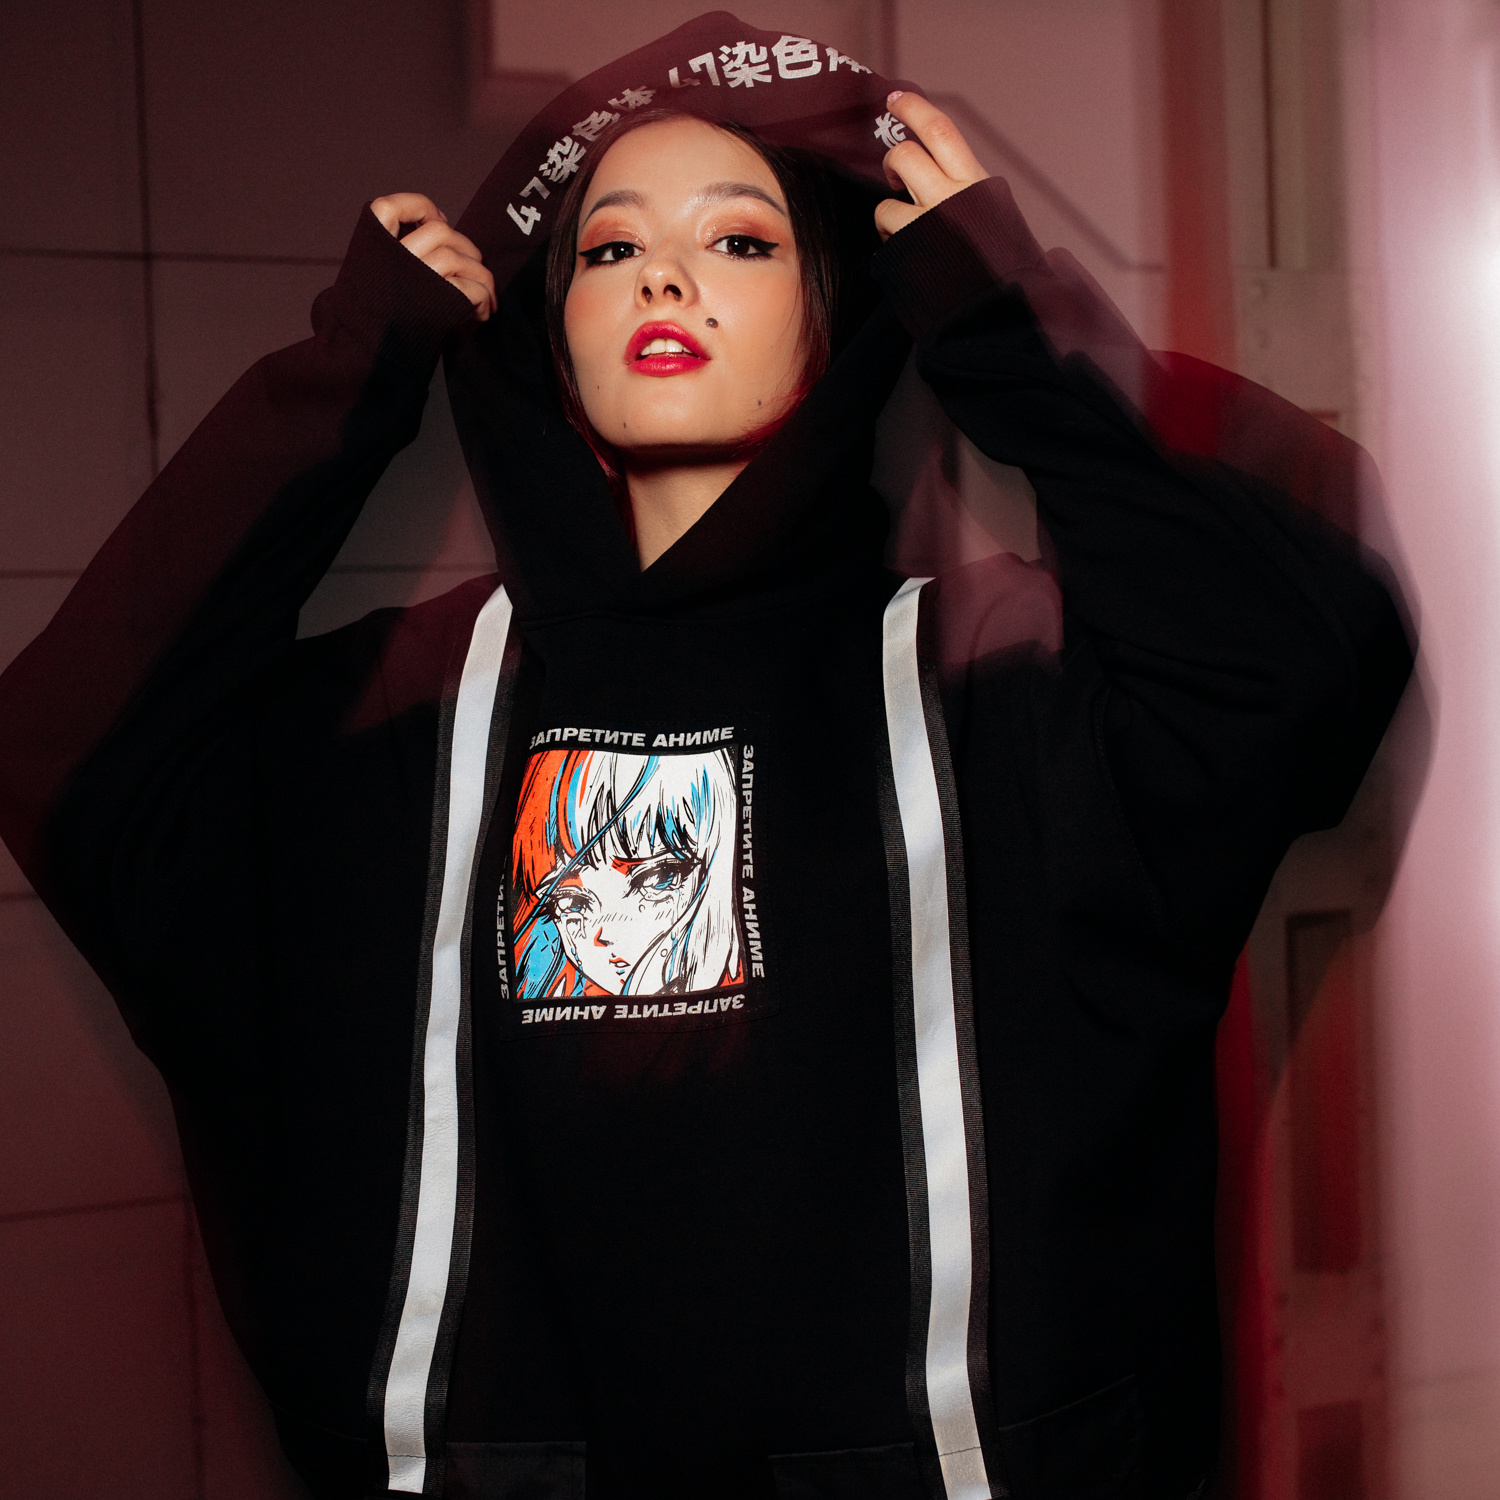
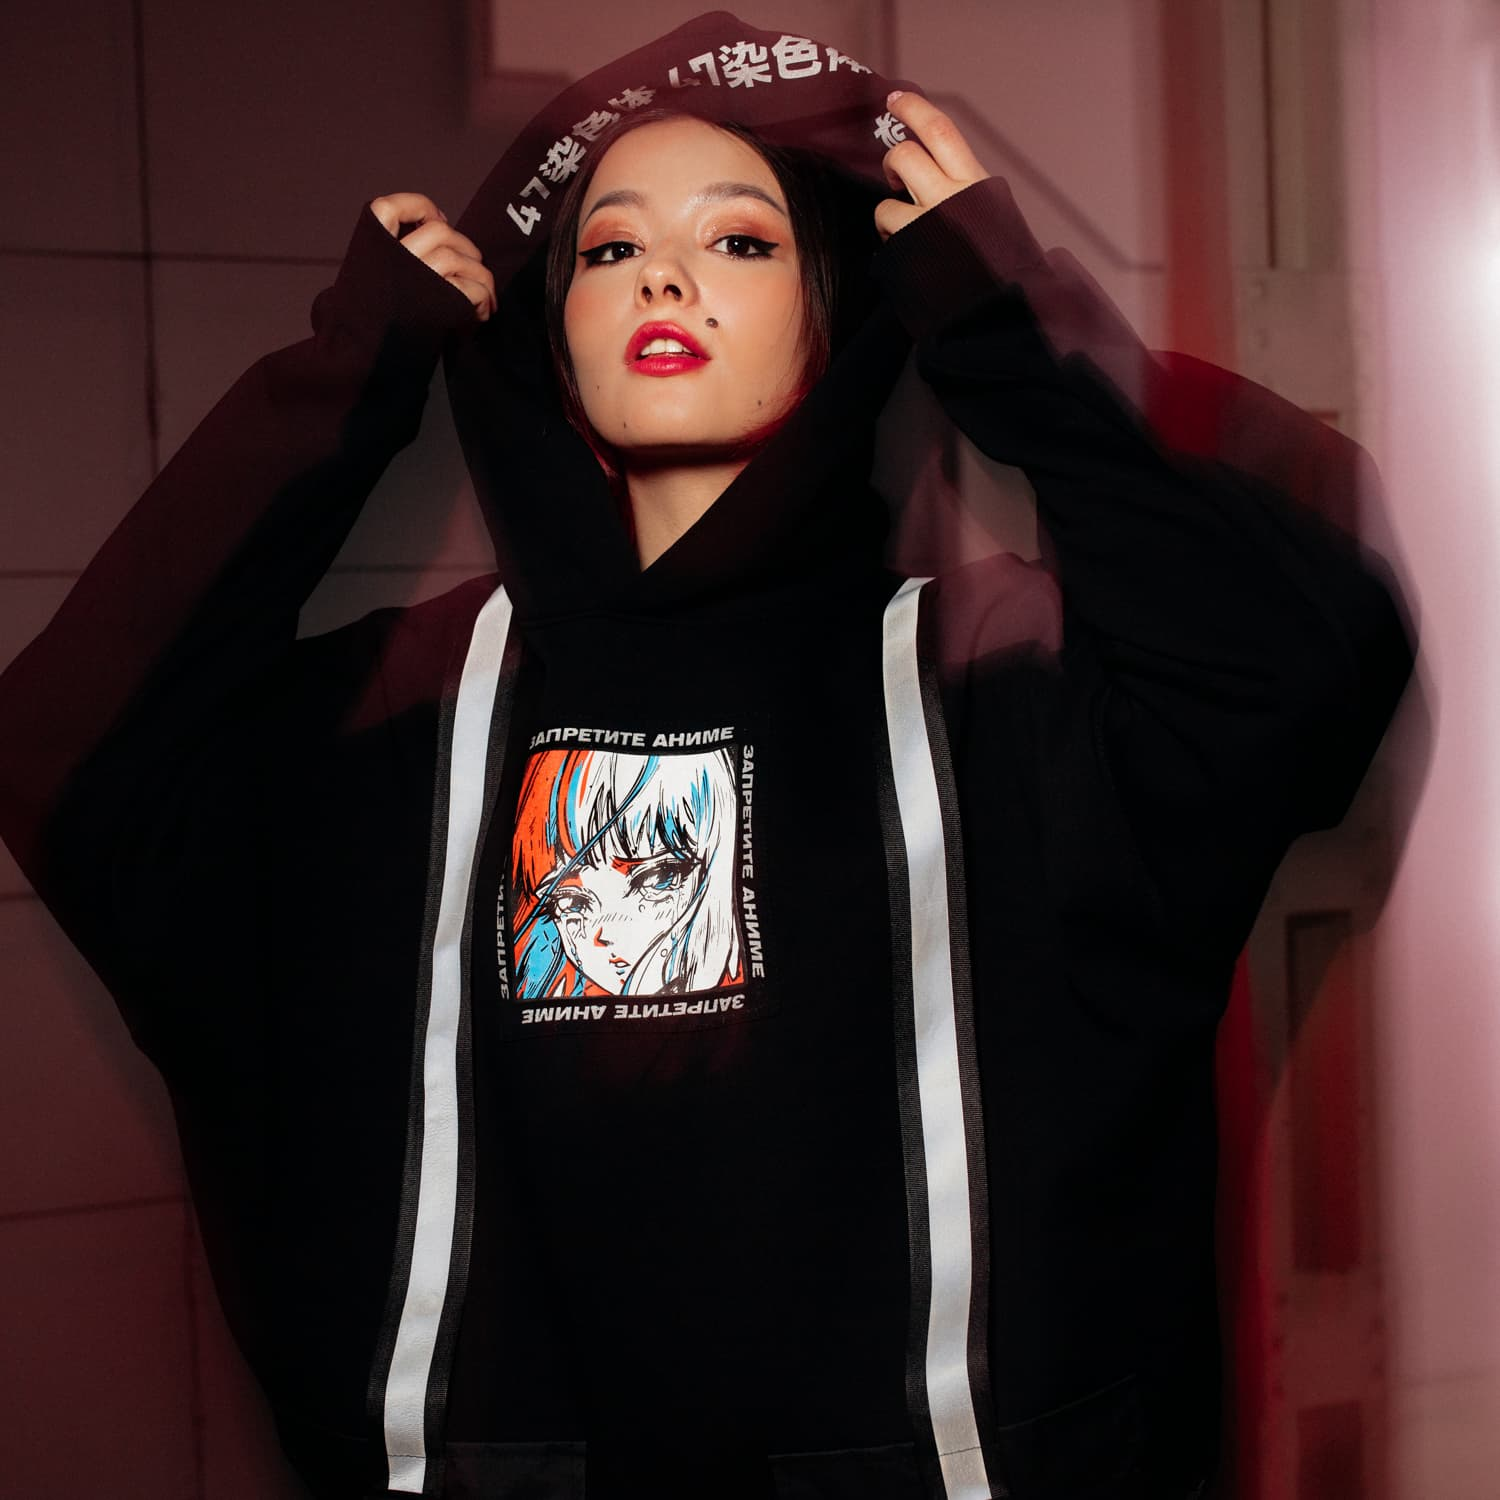
refactor: сжал изображения

Changed region(s): [[0.3373, 0.4907, 0.46, 0.6747]]

diff --git a/index.html b/index.html
@@ -19,7 +19,6 @@
       property="og:description"
       content="Производство мерча и одежды для брендов в Санкт-Петербурге. Шелкография, вышивка, создание бренда под ключ."
     />
-    <meta property="og:image" content="https://ваш-сайт.ru/path/to/image.jpg" />
     <meta property="og:url" content="https://famfactory.ru" />
     <link rel="stylesheet" href="./src/style/main.css" />
     <link rel="stylesheet" href="https://unpkg.com/aos@next/dist/aos.css" />
@@ -132,7 +131,7 @@
             <a href="#" data-aos="flip-up">
               <figure class="product-card">
                 <img
-                  src="../assets/media/img/item-5.png"
+                  src="../assets/media/img/item-5.jpg"
                   alt="Шопер с розовым рисунком кота"
                   loading="lazy"
                 />
@@ -492,7 +491,7 @@
           <div class="collaboration_items">
             <img
               data-aos="flip-up"
-              src="../assets/media/img/collab-1.png"
+              src="../assets/media/img/collab-1.jpg"
               alt="Слава КПСС"
               loading="lazy"
             />
@@ -504,13 +503,13 @@
             />
             <img
               data-aos="flip-up"
-              src="../assets/media/img/collab-3.png"
+              src="../assets/media/img/collab-3.jpg"
               alt="Women"
               loading="lazy"
             />
             <img
               data-aos="flip-up"
-              src="../assets/media/img/collab-4.png"
+              src="../assets/media/img/collab-4.jpg"
               alt="Какой то чел или нет"
               loading="lazy"
             />
@@ -528,13 +527,13 @@
             />
             <img
               data-aos="flip-up"
-              src="../assets/media/img/collab-7.png"
+              src="../assets/media/img/collab-7.jpg"
               alt="3 чела. Походу реперы"
               loading="lazy"
             />
             <img
               data-aos="flip-up"
-              src="../assets/media/img/collab-8.png"
+              src="../assets/media/img/collab-8.jpg"
               alt="Women"
               loading="lazy"
             />

diff --git a/src/style/main.css b/src/style/main.css
@@ -129,7 +129,7 @@ input[type=file] {
 
 .header {
   height: 700px;
-  background: url(../../../assets//media/img/header-bg.jpg) center no-repeat;
+  background: url(../../../assets/media/img/header-bg.jpg) center no-repeat;
   background-size: cover;
   color: #ffffff;
   font-family: "RFDewi", sans-serif;

diff --git a/src/style/layout/_header.scss b/src/style/layout/_header.scss
@@ -4,7 +4,7 @@
 
 .header {
 	height: 700px;
-	background: url(../../../assets//media/img/header-bg.jpg) center no-repeat;
+	background: url(../../../assets/media/img/header-bg.jpg) center no-repeat;
 	background-size: cover;
 	color: $white;
 	font-family: $font-dewi-expanded;
